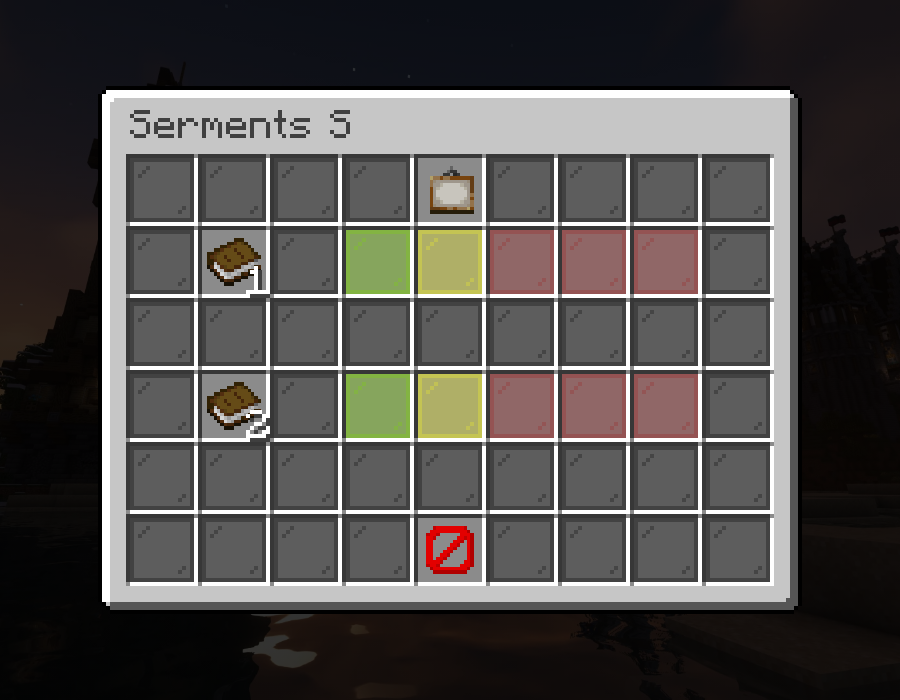
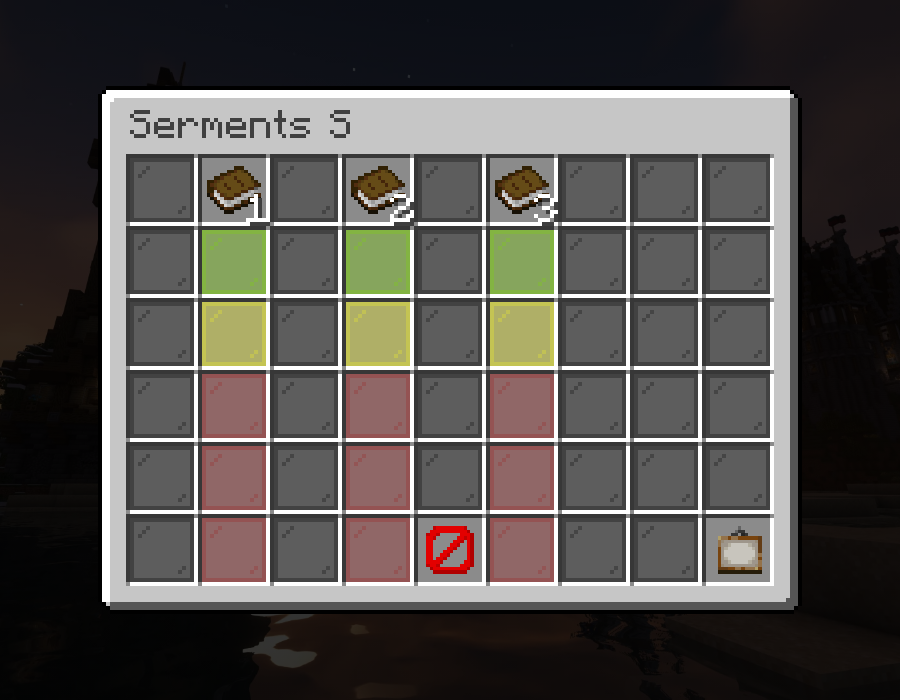
Serments S : serments en colonnes, ajout d'un 3e serment, tableau en bas à droite
Claude-Session: https://claude.ai/code/session_019gCBZ2Dy19V3W7UiEquzyT

Changed region(s): [[0.3733, 0.21, 0.7778, 0.84], [0.2178, 0.21, 0.3111, 0.84], [0.7778, 0.72, 0.8711, 0.84]]

diff --git a/index.html b/index.html
@@ -141,6 +141,14 @@ function sermentSlots() {
   }
   return slots;
 }
+// Une colonne de la page « Serments S » : le livre du serment en haut, puis 5 vitres colorées en dessous.
+function sermentColumn(col, page, name) {
+  const panes = ['lime_stained_glass', 'yellow_stained_glass', 'red_stained_glass', 'red_stained_glass', 'red_stained_glass'];
+  const slots = { [`0,${col}`]: { item: 'book', tooltip: [`§a${name}`, ...LORE], open: page } };
+  panes.forEach((pane, i) => { slots[`${i + 1},${col}`] = { pane }; });
+  return slots;
+}
+
 // Date d'entrée des serments, saisie sur un panneau et gardée dans ce navigateur ;
 // la date de fin en est déduite (date d'entrée + 1 an).
 const DATES_KEY = 'serments-dates';
@@ -235,19 +243,10 @@ const PAGES = {
   serments: {
     title: PAGE_TITLES.serments,
     slots: {
-      '0,4': { item: 'painting', tooltip: ['§aDurée des Serments', ...LORE], open: 'duree' },
-      '1,1': { item: 'book', tooltip: ['§aSerment S 1 - 12K/Mois', ...LORE], open: 'serment1' },
-      '1,3': { pane: 'lime_stained_glass' },
-      '1,4': { pane: 'yellow_stained_glass' },
-      '1,5': { pane: 'red_stained_glass' },
-      '1,6': { pane: 'red_stained_glass' },
-      '1,7': { pane: 'red_stained_glass' },
-      '3,1': { item: 'book', tooltip: ['§aSerment S 2 - 75Kg Sec', ...LORE], open: 'serment2' },
-      '3,3': { pane: 'lime_stained_glass' },
-      '3,4': { pane: 'yellow_stained_glass' },
-      '3,5': { pane: 'red_stained_glass' },
-      '3,6': { pane: 'red_stained_glass' },
-      '3,7': { pane: 'red_stained_glass' },
+      ...sermentColumn(1, 'serment1', 'Serment S 1 - 12K/Mois'),
+      ...sermentColumn(3, 'serment2', 'Serment S 2 - 75Kg Sec'),
+      ...sermentColumn(5, 'serment3', 'Serment S 3'),
+      '5,8': { item: 'painting', tooltip: ['§aDurée des Serments', ...LORE], open: 'duree' },
       ...navSlots('main'),
     },
   },
@@ -265,6 +264,10 @@ const PAGES = {
   },
   serment2: {
     title: 'Serment S 2 - 75Kg Sec',
+    slots: { ...sermentSlots(), ...navSlots('serments') },
+  },
+  serment3: {
+    title: 'Serment S 3',
     slots: { ...sermentSlots(), ...navSlots('serments') },
   },
 };
